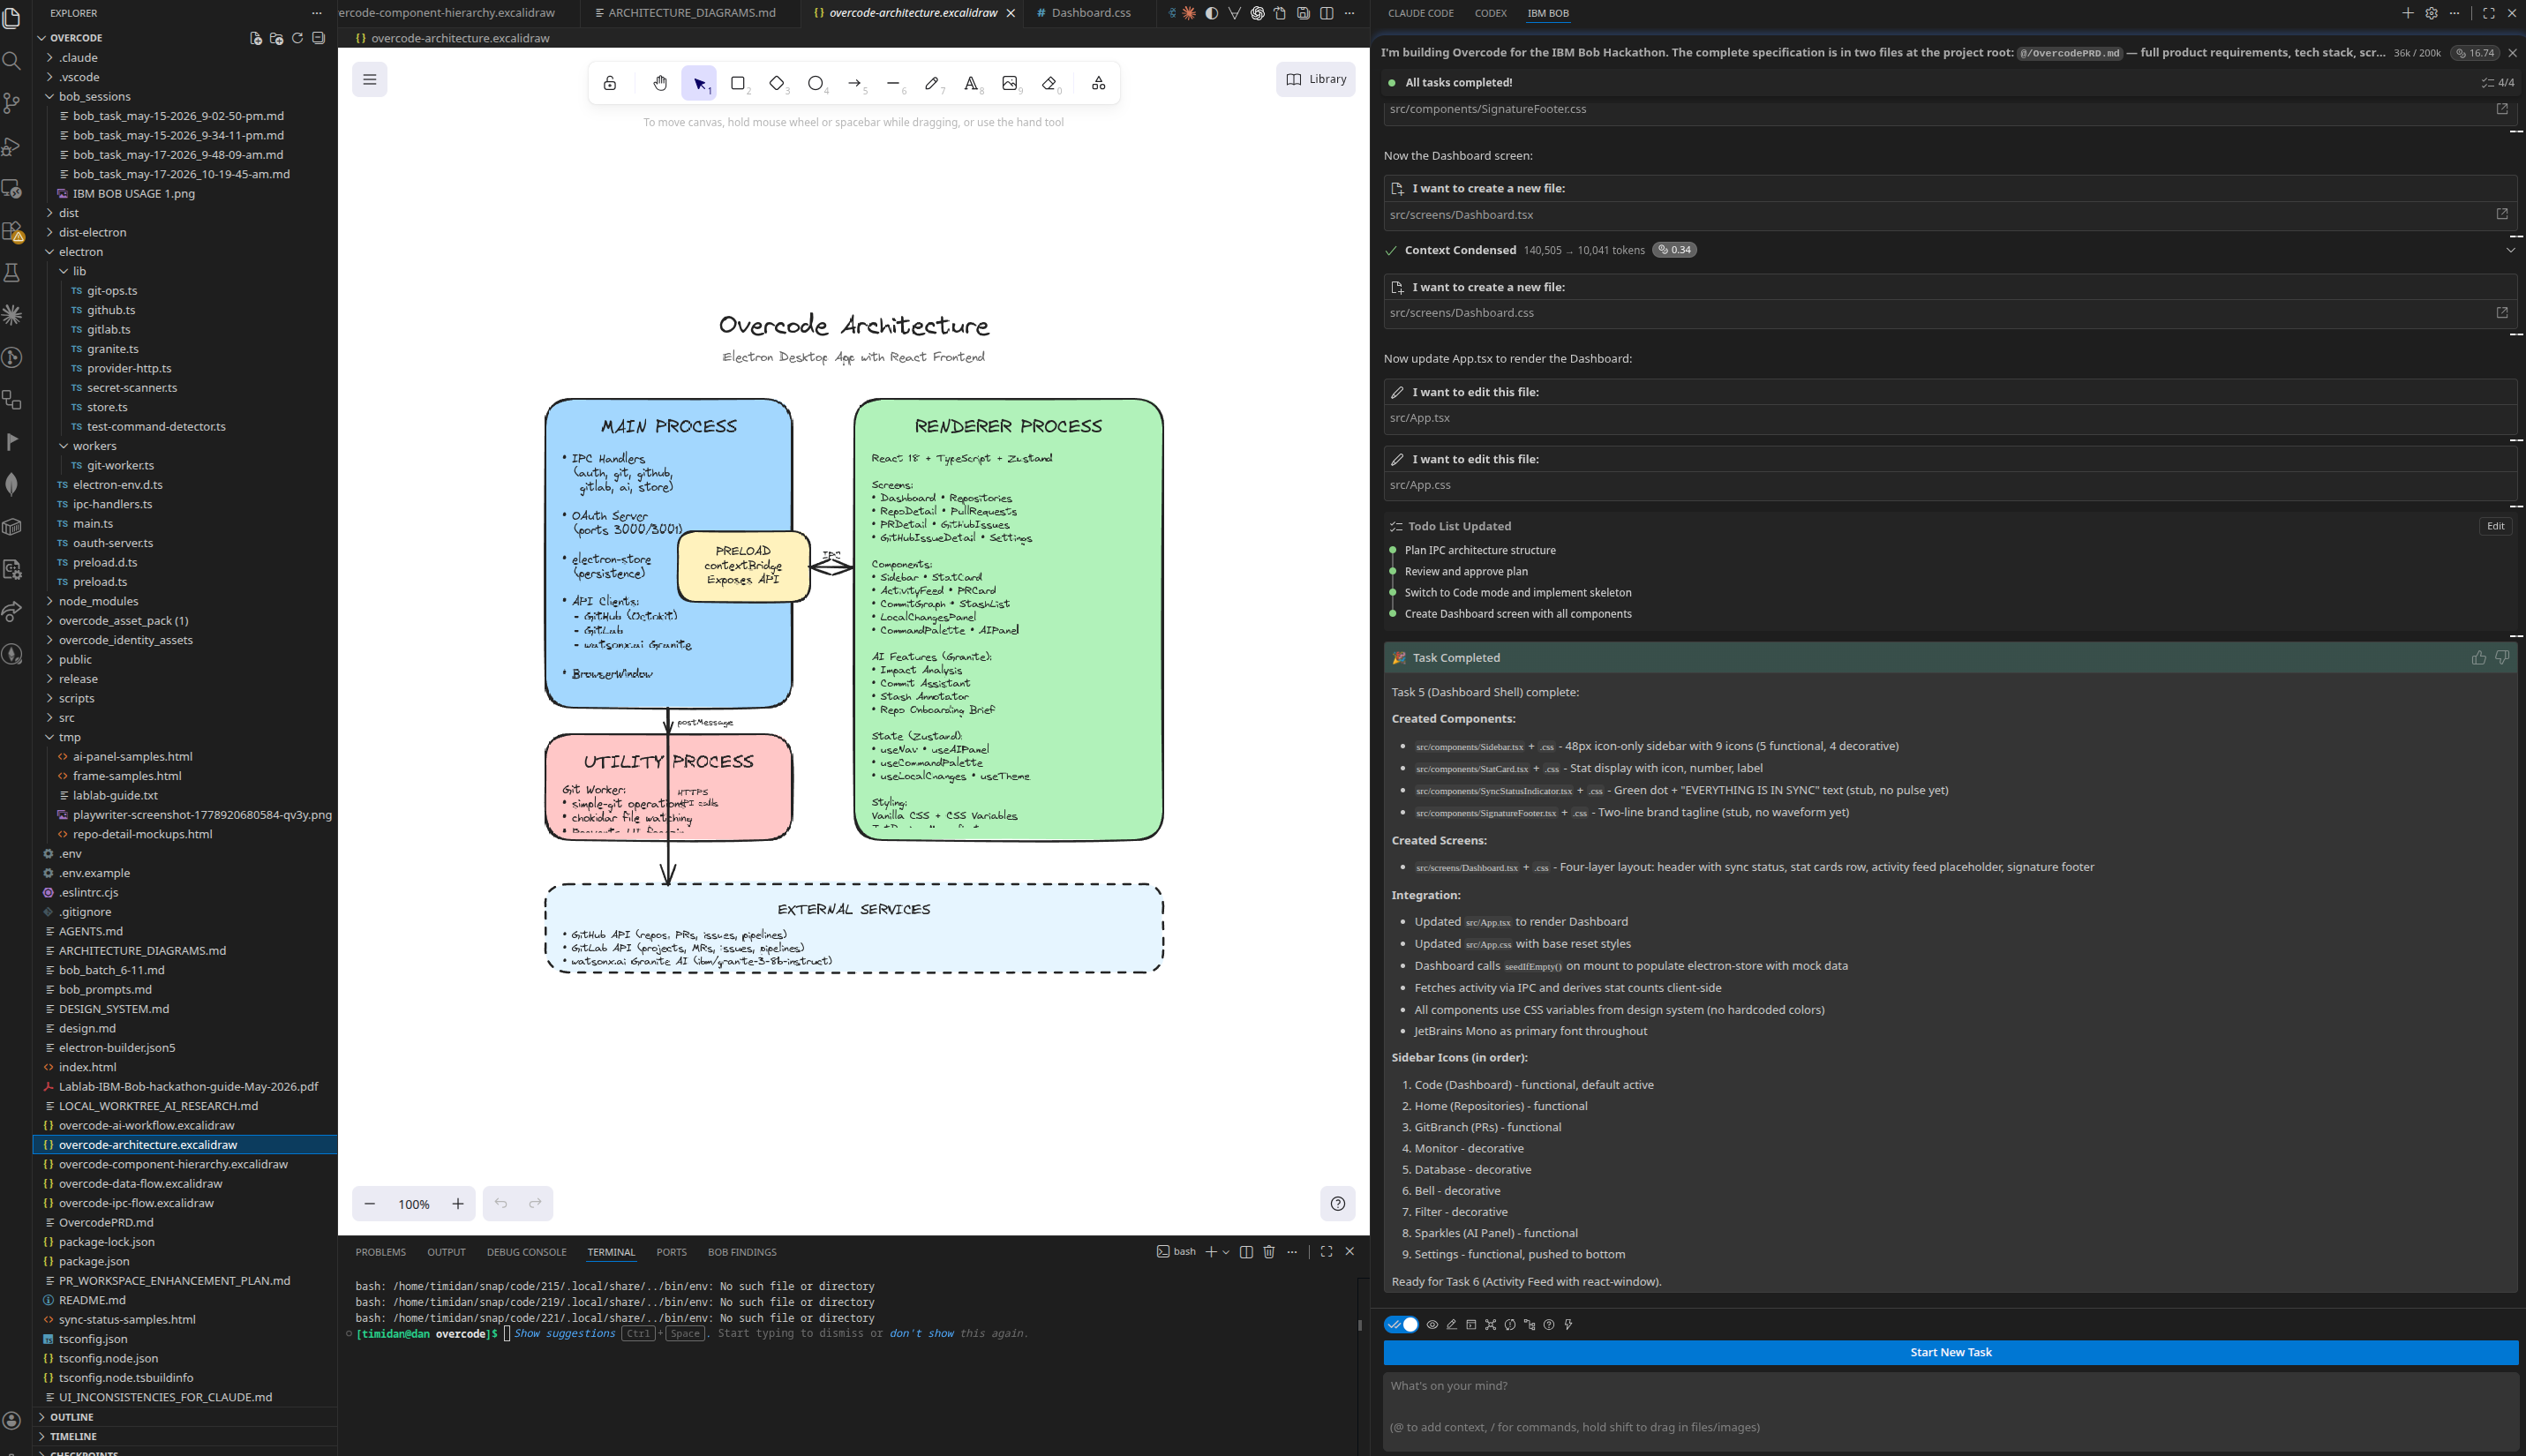
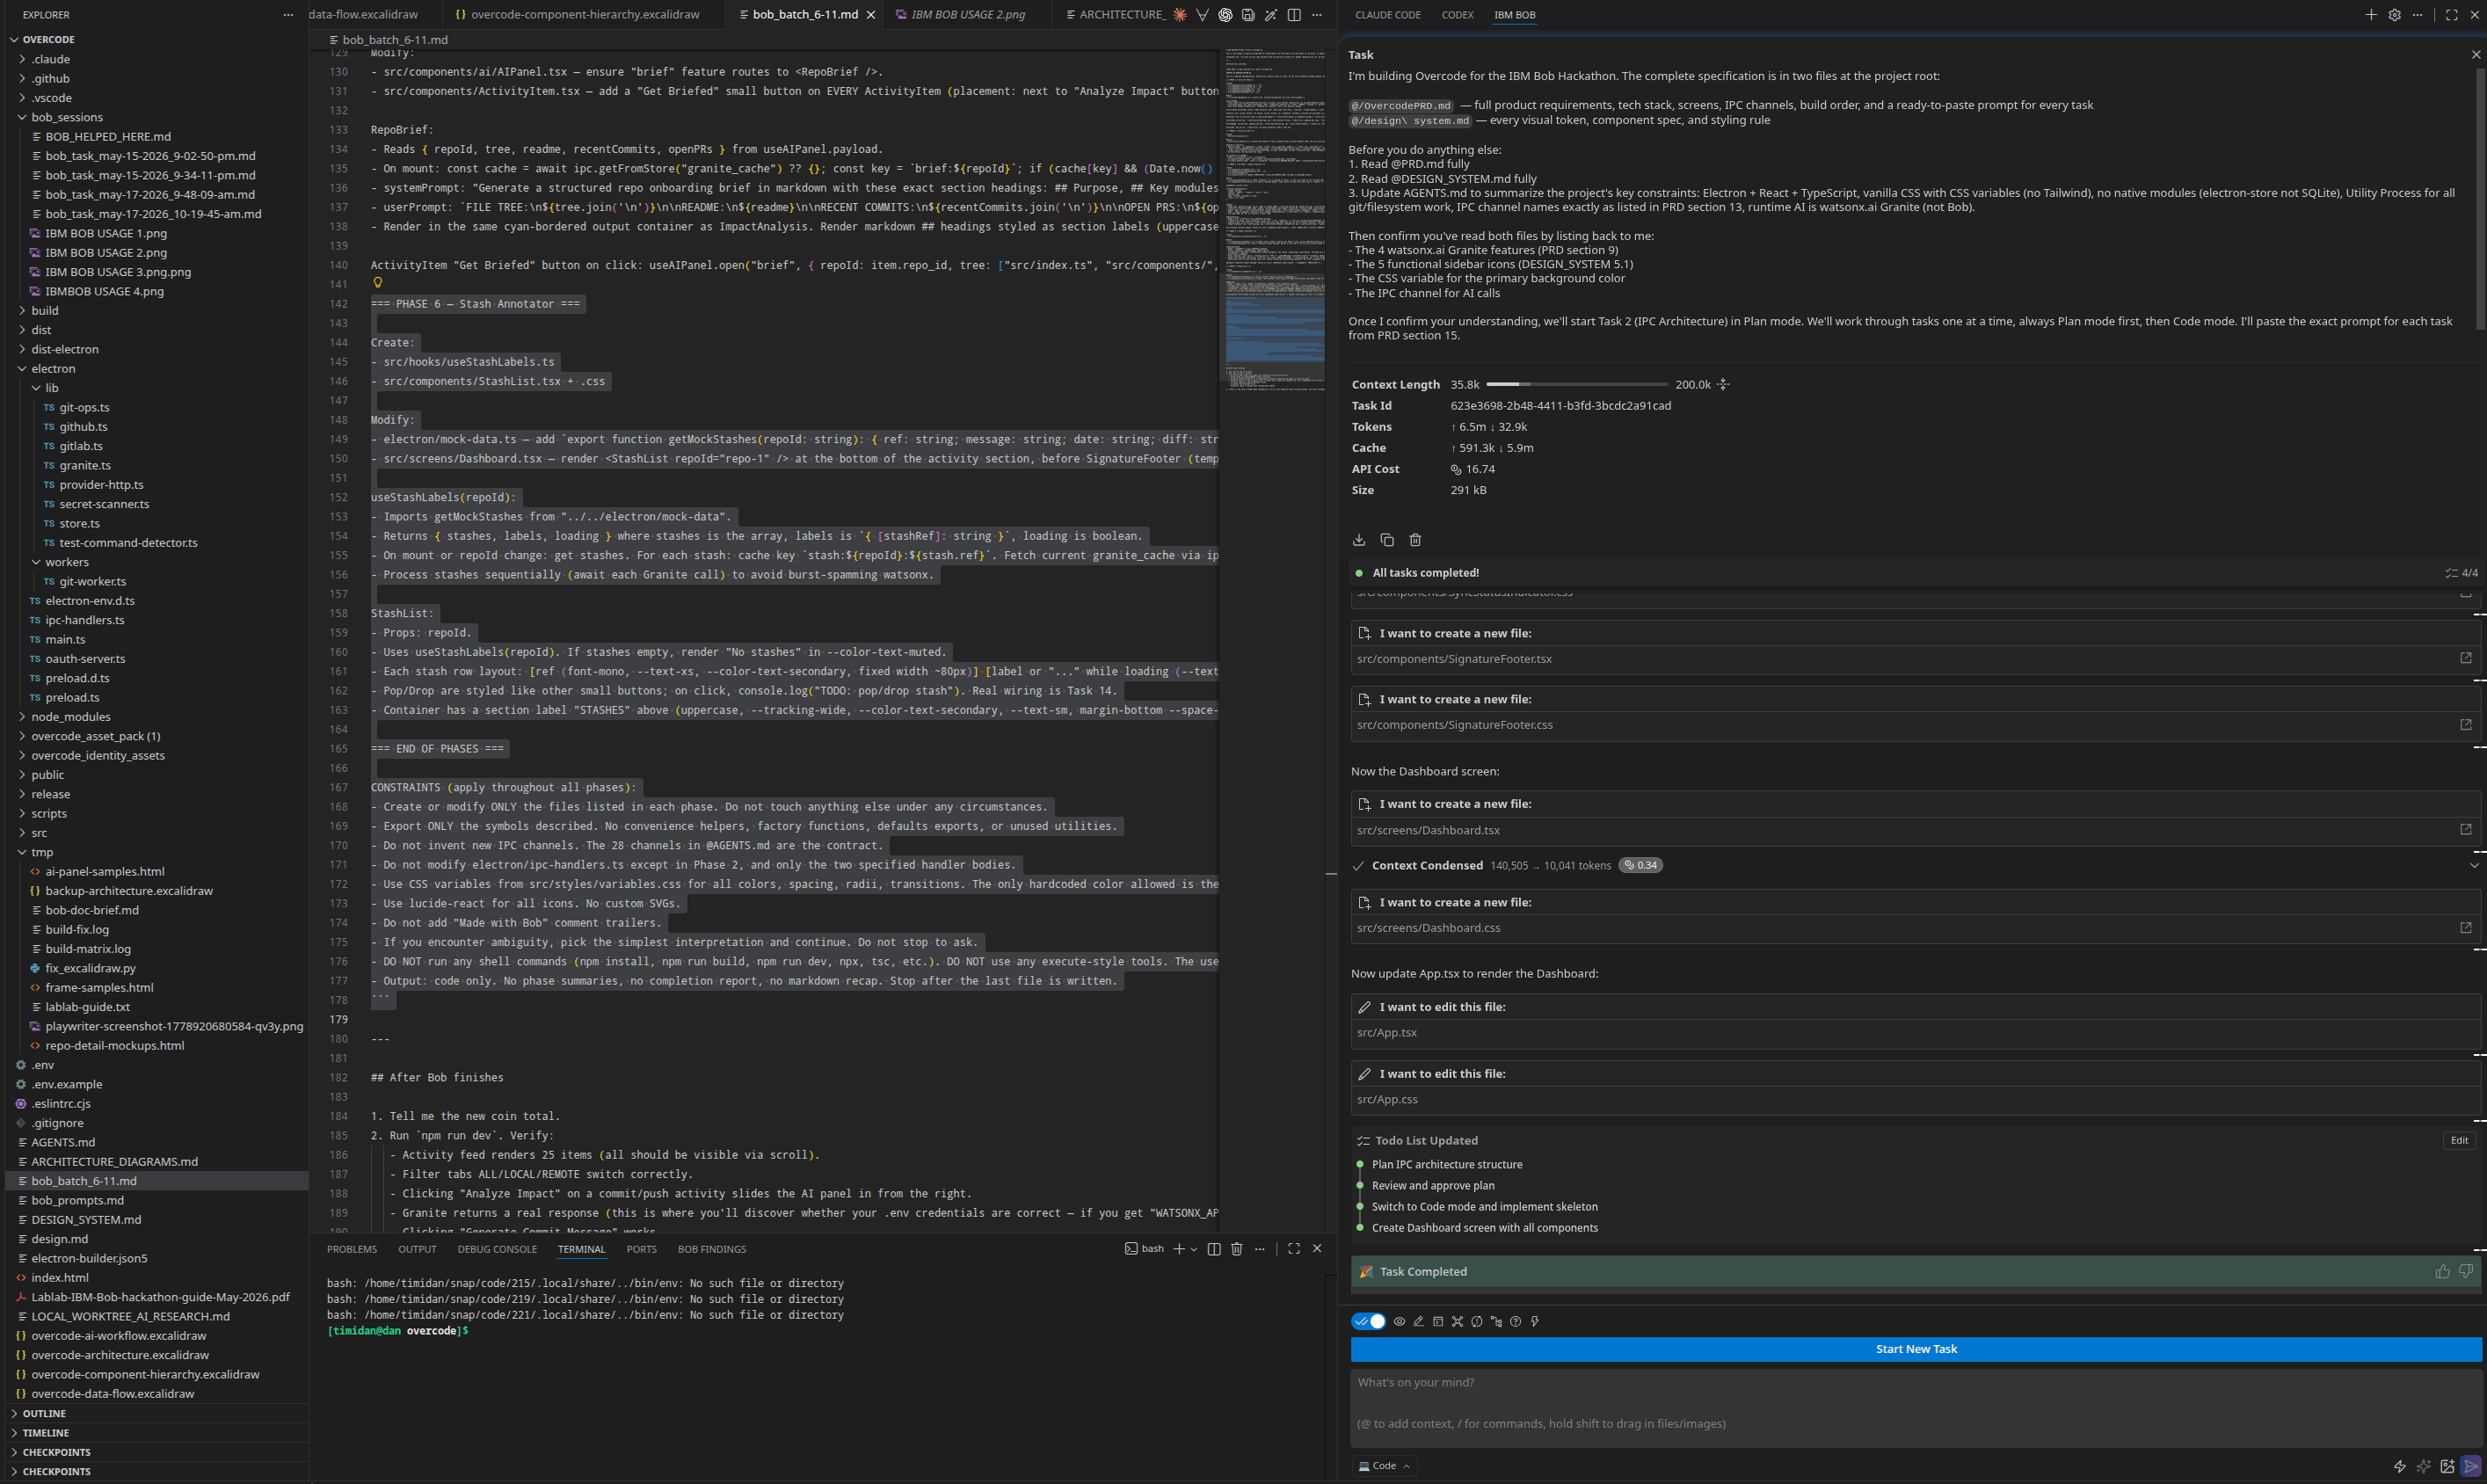
chore: clean up empty code change sections in the changes log

diff --git a/src/screens/Repositories.css b/src/screens/Repositories.css
@@ -686,12 +686,8 @@
 
 .repo-row-discovered.is-selected { background: var(--color-bg-elevated); }
 
-/* ---- Per-row hover-reveal action bar ----
-   Lives inside .repo-row-actions-wrap, immediately to the LEFT of the
-   permanent Add/Ignore block. Reserves its own slot at rest (opacity 0,
-   pointer-events none) so Add/Ignore stays at a stable x-position on
-   hover and is never overlapped. Prior version was absolutely positioned
-   over the Add/Ignore block and intercepted clicks on hover. */
+/* Hoverbar reserves its slot at rest (opacity 0) so Add/Ignore keeps a
+   stable x-position when the row is hovered. */
 .repo-row-actions-wrap {
   display: inline-flex;
   align-items: center;

diff --git a/src/screens/Settings.tsx b/src/screens/Settings.tsx
@@ -271,7 +271,7 @@ export function SettingsScreen() {
       ...settings,
       hidden_repo_ids: current.filter((existing) => existing !== id),
     });
-    setMessage(`Unhid ${prettyHiddenId(id)}. It will reappear on the next scan.`);
+    setMessage(`Unhid ${prettyHiddenId(id).rest}. It will reappear on the next scan.`);
   }
 
   async function unhideAllRepos() {